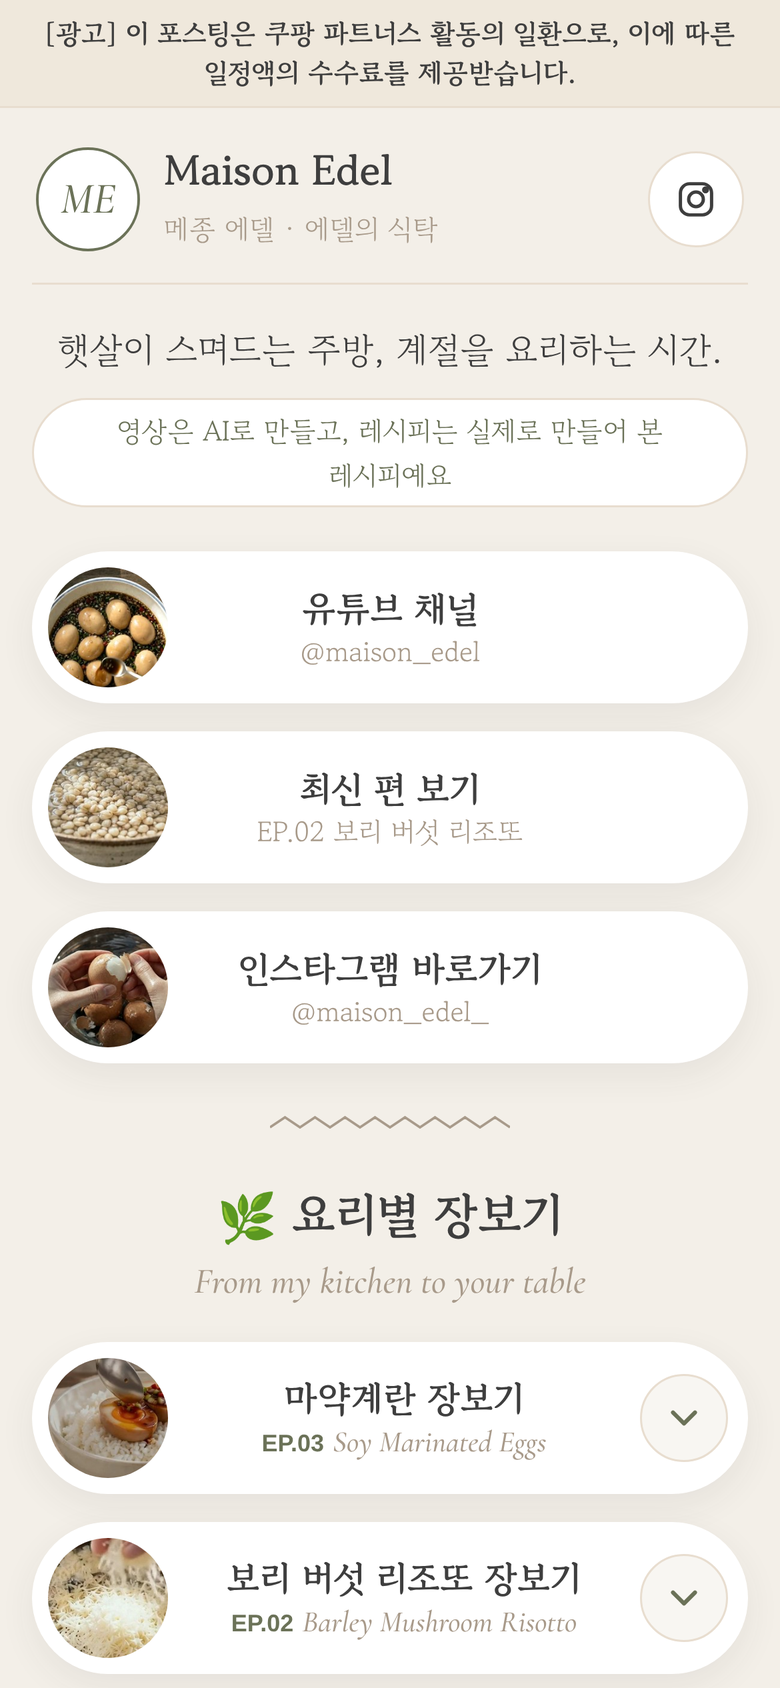
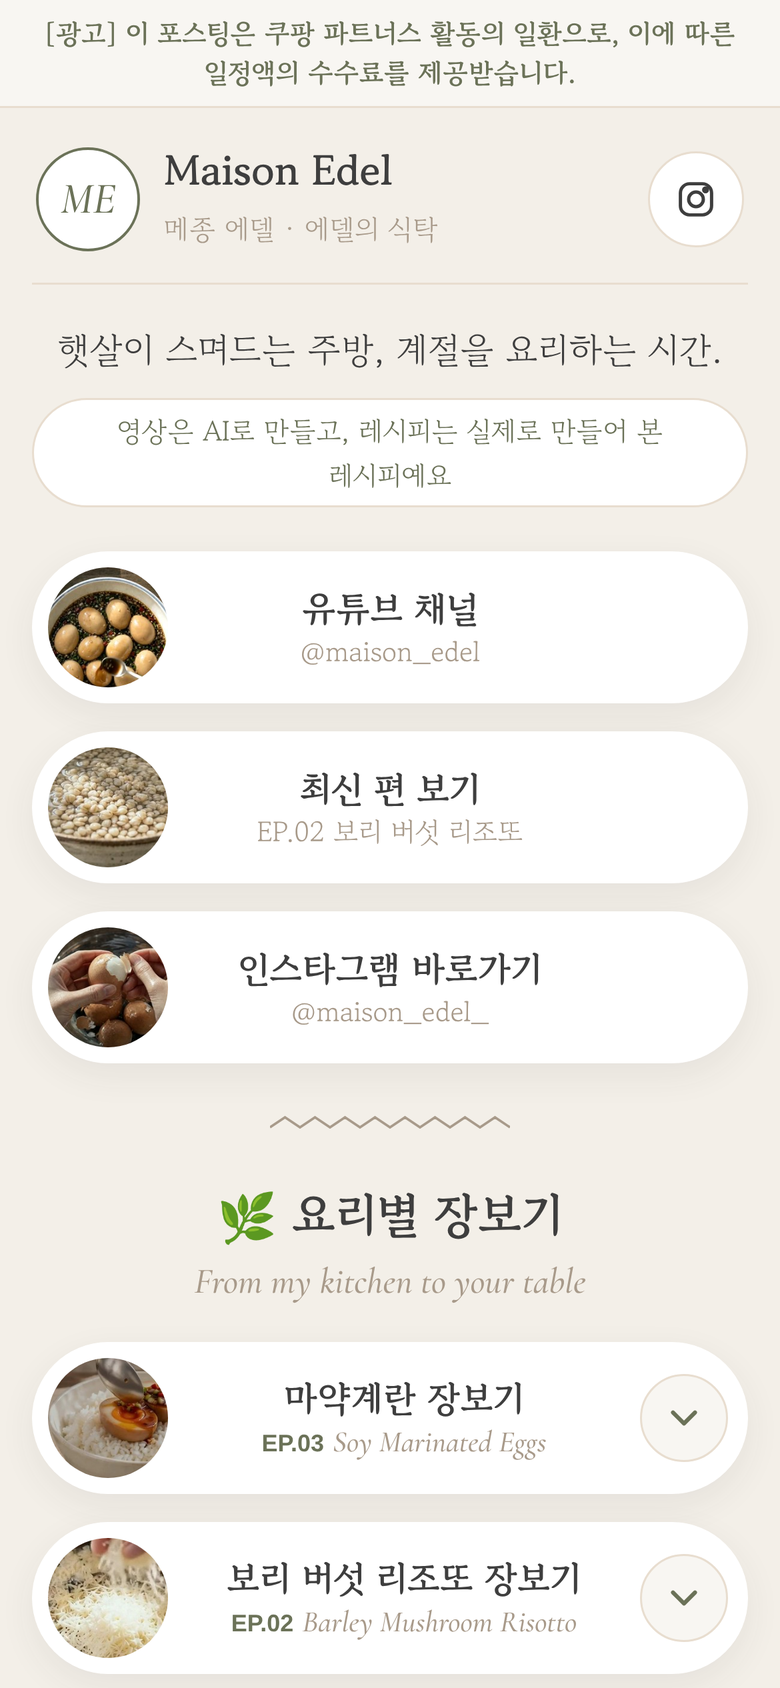
장보기 페이지 고치는 중 중간 저장
Claude-Session: https://claude.ai/code/session_01Ethqw5r7mmktrKzGmpSNVy

diff --git a/company/초안/메종에델-장보기/index.html b/company/초안/메종에델-장보기/index.html
@@ -35,7 +35,7 @@
   /* 1. 맨 위 대가 표시 띠: 흘러가지 않고 한 번에 다 읽히게 (줄바꿈) */
   .band {
     position: sticky; top: 0; z-index: 5;
-    background: var(--band); color: var(--charcoal);
+    background: var(--ivory); color: var(--olive);
     border-bottom: 1px solid var(--beige);
     padding: 7px 16px; text-align: center;
     font-size: 13.5px; font-weight: 700; line-height: 1.45;
